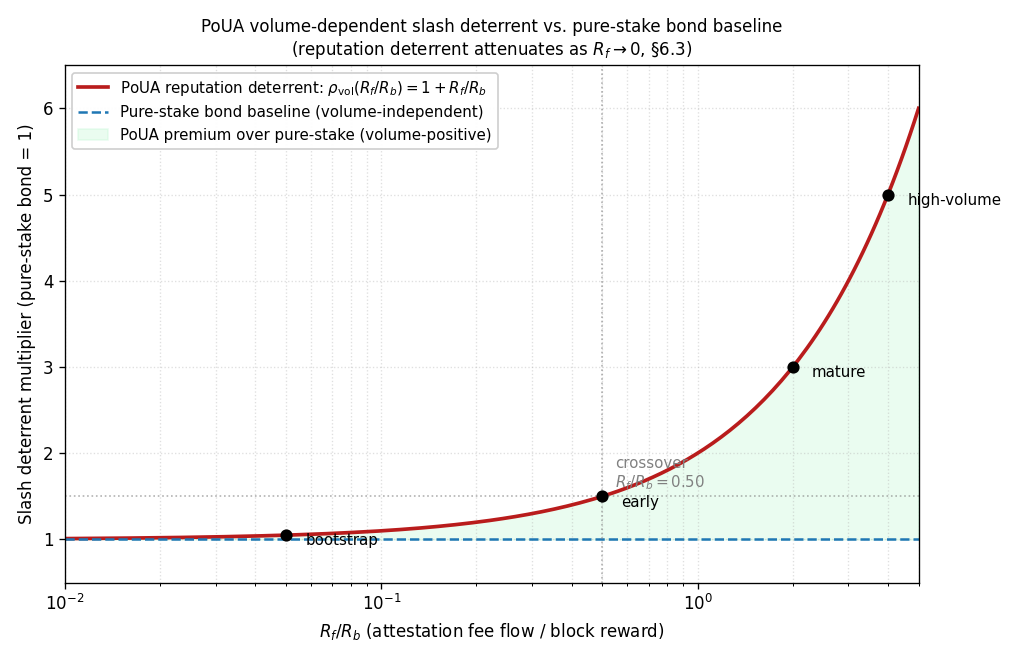
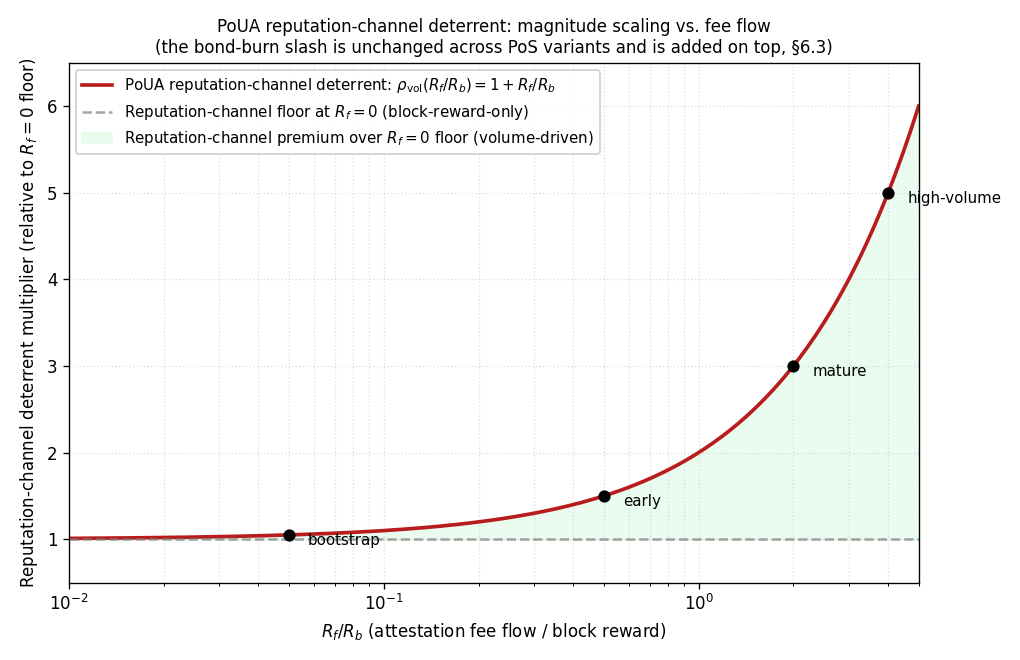
PoUA v0.7.1: papers/ roadmap + inline citation pass (#29)
* PoUA v0.7.1: papers/README.md roadmap update + inline citation pass on prose claims

* PoUA v0.7.1: fix §6.3.1 framing (PoUA total deterrent always ≥ pure-stake PoS) + Lemma 1 uniform-allocation footnote

Pull request: PoUA v0.7.1: papers/ roadmap + inline citation pass
## What

Two small post-v0.7 cleanups:

### `papers/README.md` roadmap refresh

The roadmap was stale (PoUA still showed as v0.2 (!), planned papers had `(open)` rather than issue numbers). Updated:

- PoUA marked v0.7 (2026-05-02) with one-sentence positioning of v0.7's empirical-validation milestone
- Planned papers now link directly to their issues (#4, #5, #6, #7)
- New "Discipline: claims link to tests" section codifies the rule that originated with the v0.6 → v0.6.1 reconciliation, citing #23

### Inline citation pass on prose claims

Per [#23](https://github.com/ligate-io/ligate-research/issues/23), the v0.7 figures cite their generators in captions but the prose body had unattributed numerical claims. Added `(see \\texttt{prototypes/poua-sim/...})` references at:

- §1.5 Approach in Brief (4-10× moat claim)
- §5.3 main premium derivation
- §5.5.3 numerical example (12.5% asymptotic / 9.7% finite-k discount)

Full audit of every numerical claim is a v0.7+ task; this pass covers the most-read claims. CI parser to validate citations against actual files lives in a separate followup issue.

### Bumped to v0.7.1

- Front-matter: `v0.7` → `v0.7.1`
- `papers/poua/README.md`: changelog entry
- Top-level `README.md`: paper version pointer
- PDF regenerated (700 KB)

## Related

- Closes paper-side of [#23](https://github.com/ligate-io/ligate-research/issues/23) (CI parser still open as a separate task)
[…]

diff --git a/prototypes/poua-sim/scripts/run_volume_deterrent.py b/prototypes/poua-sim/scripts/run_volume_deterrent.py
@@ -2,20 +2,25 @@
 
 §6.3 derives the present value of marginal reputation as proportional to
 ``(R_b + R_f) · (1 - e^{-δΔ}) / δ``, where ``R_b`` is the protocol block
-reward and ``R_f`` is the attestation fee flow.
+reward and ``R_f`` is the attestation fee flow. The reputation-channel
+slash deterrent therefore scales with chain revenue.
 
-Pure-stake PoS slashing depends only on the burned bond, not on volume.
-PoUA's slash deterrent through the reputation channel attenuates as
-``R_f → 0``. This is the asymmetry [#15](https://github.com/ligate-io/ligate-research/issues/15)
-flags.
+PoUA retains the bond-burn slash on top of this reputation channel. The
+*total* slash deterrent in PoUA = bond burn + reputation-channel
+deterrent, never less than pure-stake PoS. What attenuates as
+``R_f → 0`` is the reputation-channel premium, which approaches its
+``R_b``-only floor (not zero, not the bond — a smaller, ``R_b``-scaled
+quantity).
 
 This script computes the *volume-deterrent ratio*:
 
     ρ_vol(R_f / R_b) = (R_b + R_f) / R_b = 1 + R_f / R_b
 
-and plots it against the pure-stake-bond baseline. Below the
-``crossover_ratio`` (where the reputation deterrent equals the bond
-deterrent), pure-stake security dominates PoUA.
+interpreted as the magnitude scaling on the reputation-channel deterrent
+relative to its ``R_f = 0`` floor. The figure plots ρ_vol(R_f/R_b) and
+marks named operating points (bootstrap, early, mature, high-volume).
+There is no comparison to bond-burn magnitude: the bond is denominated
+separately and added on top.
 
 Closes the analytical component of #15. The empirical component (devnet
 fee-flow trajectory) lands when devnet ships.
@@ -46,22 +51,22 @@ NAMED_POINTS = {
     "high-volume": 4.0,  # busy attestation chain
 }
 
-# Relative slash-deterrent strength of pure-stake-bond baseline.
-# This is the floor below which PoUA's reputation deterrent is dominated
-# by pure-stake bond. We normalize by setting it = 1.0.
-PURE_STAKE_DETERRENT = 1.0
-
-# The "crossover" is where (R_b + R_f) / R_b = floor multiplier; pick a
-# concrete value to highlight the threshold below which reputation alone
-# is weaker than the bond. Recommended: floor = 1.5x the bond.
-CROSSOVER_FLOOR = 1.5
+# The R_f = 0 floor of the reputation-channel deterrent (block-reward-only).
+# Plotted as a horizontal reference line at ρ_vol = 1.0. NOT a comparison
+# to bond-burn magnitude; the bond is denominated separately and is added
+# on top of the reputation channel in PoUA's total slash deterrent.
+RHO_VOL_FLOOR = 1.0
 
 OUT = Path(__file__).resolve().parent.parent / "out"
 OUT.mkdir(exist_ok=True)
 
 
 def rho_vol(r_f_over_r_b: np.ndarray | float) -> np.ndarray | float:
-    """Volume-deterrent ratio: ``(R_b + R_f) / R_b = 1 + R_f / R_b``."""
+    """Volume-deterrent ratio: ``(R_b + R_f) / R_b = 1 + R_f / R_b``.
+
+    Interpreted as the magnitude scaling on the reputation-channel slash
+    deterrent relative to its ``R_f = 0`` floor.
+    """
     return 1.0 + r_f_over_r_b
 
 
@@ -70,17 +75,13 @@ def main() -> None:
 
     rho = rho_vol(R_F_OVER_R_B)
 
-    # Find the crossover point where rho_vol = CROSSOVER_FLOOR.
-    crossover_x = CROSSOVER_FLOOR - 1.0  # since rho = 1 + x, x = floor - 1
-
     # Save data
     data = {
         "config": {
             "r_f_over_r_b_min": float(R_F_OVER_R_B.min()),
             "r_f_over_r_b_max": float(R_F_OVER_R_B.max()),
             "n_points": len(R_F_OVER_R_B),
-            "crossover_floor": CROSSOVER_FLOOR,
-            "crossover_x": crossover_x,
+            "rho_vol_floor": RHO_VOL_FLOOR,
         },
         "samples": [
             {"r_f_over_r_b": float(x), "rho_vol": float(rho_vol(x))}
@@ -98,35 +99,24 @@ def main() -> None:
     out_json.write_text(json.dumps(data, indent=2))
     print(f"saved {out_json}", flush=True)
 
-    print(f"\nVolume-deterrent at named operating points:")
+    print(f"\nReputation-channel deterrent multiplier (relative to R_f=0 floor) at named operating points:")
     for name, x in NAMED_POINTS.items():
-        print(f"  {name:>14}: R_f / R_b = {x:>5.2f}, ρ_vol = {rho_vol(x):.3f}x bond-only")
+        print(f"  {name:>14}: R_f / R_b = {x:>5.2f}, ρ_vol = {rho_vol(x):.3f}x floor")
 
-    print(f"\nCrossover where ρ_vol = {CROSSOVER_FLOOR}x:")
-    print(f"  R_f / R_b = {crossover_x:.3f}")
-    print(f"  Below this ratio, PoUA's reputation deterrent is weaker than a")
-    print(f"  {CROSSOVER_FLOOR:.1f}x bond multiplier; pure-stake PoS would have a tighter floor.")
+    print(f"\nNote on framing: the reputation-channel deterrent has its minimum at R_f=0 (block-reward-only).")
+    print(f"PoUA's total slash deterrent = bond burn + reputation-channel quantity, always >= pure-stake PoS.")
+    print(f"This script plots only the magnitude scaling on the reputation-channel premium.")
 
     # Figure
     fig, ax = plt.subplots(figsize=(8.5, 5.5), dpi=120)
 
     ax.semilogx(R_F_OVER_R_B, rho, color="#b91c1c", linewidth=2.2,
-                label=r"PoUA reputation deterrent: $\rho_{\mathrm{vol}}(R_f / R_b) = 1 + R_f / R_b$")
+                label=r"PoUA reputation-channel deterrent: $\rho_{\mathrm{vol}}(R_f / R_b) = 1 + R_f / R_b$")
 
-    # Pure-stake bond baseline.
-    ax.axhline(y=PURE_STAKE_DETERRENT, color="#1f77b4", linestyle="--",
-               linewidth=1.5, label=r"Pure-stake bond baseline (volume-independent)")
-
-    # Crossover threshold.
-    ax.axhline(y=CROSSOVER_FLOOR, color="gray", linestyle=":", linewidth=1.0, alpha=0.6)
-    ax.axvline(x=crossover_x, color="gray", linestyle=":", linewidth=1.0, alpha=0.6)
-    ax.text(
-        crossover_x * 1.1,
-        CROSSOVER_FLOOR + 0.1,
-        f"crossover\n$R_f / R_b = {crossover_x:.2f}$",
-        fontsize=9,
-        color="gray",
-    )
+    # R_f = 0 floor reference line. Not a comparison to bond magnitude.
+    ax.axhline(y=RHO_VOL_FLOOR, color="gray", linestyle="--",
+               linewidth=1.5, alpha=0.7,
+               label=r"Reputation-channel floor at $R_f = 0$ (block-reward-only)")
 
     # Named points.
     for name, x in NAMED_POINTS.items():
@@ -142,23 +132,23 @@ def main() -> None:
 
     ax.fill_between(
         R_F_OVER_R_B,
-        PURE_STAKE_DETERRENT,
+        RHO_VOL_FLOOR,
         rho,
-        where=(rho >= PURE_STAKE_DETERRENT),
+        where=(rho >= RHO_VOL_FLOOR),
         color="#bbf7d0",
         alpha=0.3,
-        label="PoUA premium over pure-stake (volume-positive)",
+        label=r"Reputation-channel premium over $R_f = 0$ floor (volume-driven)",
     )
 
     ax.set_xlabel(r"$R_f / R_b$ (attestation fee flow / block reward)")
-    ax.set_ylabel(r"Slash deterrent multiplier (pure-stake bond = 1)")
+    ax.set_ylabel(r"Reputation-channel deterrent multiplier (relative to $R_f = 0$ floor)")
     ax.set_xlim(R_F_OVER_R_B.min(), R_F_OVER_R_B.max())
-    ax.set_ylim(0.5, max(rho.max() + 0.5, CROSSOVER_FLOOR + 1))
+    ax.set_ylim(0.5, rho.max() + 0.5)
     ax.grid(True, linestyle=":", which="both", alpha=0.4)
     ax.legend(loc="upper left", fontsize=9, framealpha=0.95)
     ax.set_title(
-        "PoUA volume-dependent slash deterrent vs. pure-stake bond baseline\n"
-        "(reputation deterrent attenuates as $R_f \\to 0$, §6.3)",
+        "PoUA reputation-channel deterrent: magnitude scaling vs. fee flow\n"
+        "(the bond-burn slash is unchanged across PoS variants and is added on top, §6.3)",
         fontsize=10,
     )
 

diff --git a/papers/poua/poua.md b/papers/poua/poua.md
@@ -2,7 +2,7 @@
 
 ## A Consensus Primitive for Attestation-Native Chains
 
-**Ligate Labs Research, Working Paper v0.7**
+**Ligate Labs Research, Working Paper v0.7.1**
 
 **Date:** 2026-05-01
 
@@ -20,7 +20,7 @@
 
 Consensus mechanisms for chains whose primary economic activity is attestation production - content provenance, AI-output attribution, threshold-signed credentials, supply-chain traceability - are misaligned with the workload they secure. Validators on a generic Proof of Stake chain earn the same fees regardless of whether they handle attestation work correctly or selectively censor it. **Proof of Useful Attestation (PoUA)** changes that.
 
-In PoUA, validator influence is computed as bonded stake multiplied by a non-transferable reputation score that grows with valid attestation processing and shrinks under detected misbehavior. The primitive is designed for chains whose runtime, fee market, and economic model are purpose-built for attestations - Ligate Chain is the worked example throughout. We give the protocol specification, a threat model under standard partial-synchrony, an incentive analysis under a profit-maximizing validator model, and a concrete integration with the Sovereign SDK rollup framework. PoUA inherits the safety and liveness properties of its underlying BFT primitive (Tendermint-style optimistic finality, in deployment) and constructs a multiplicative cost-to-attack premium of $4\times$ to $10\times$ over equivalent pure-stake chains.
+In PoUA, validator influence is computed as bonded stake multiplied by a non-transferable reputation score that grows with valid attestation processing and shrinks under detected misbehavior. The primitive is designed for chains whose runtime, fee market, and economic model are purpose-built for attestations - Ligate Chain is the worked example throughout. We give the protocol specification, a threat model under standard partial-synchrony, an incentive analysis under a profit-maximizing validator model, and a concrete integration with the Sovereign SDK rollup framework. PoUA inherits the safety and liveness properties of its underlying BFT primitive (Tendermint-style optimistic finality, in deployment) and constructs a multiplicative cost-to-attack premium of $4\times$ to $10\times$ over equivalent pure-stake chains (Figure \ref{fig:cost-to-attack}; reproduced empirically by \texttt{prototypes/poua-sim/scripts/run\_capital\_scan.py}).
 
 The contribution is not a new cryptographic primitive. It is a synthesis: reputation-weighted consensus (Yu et al., 2019; Eyal, 2015), proof-of-useful-work (Helium 2018; Filecoin 2017), and restaking with non-transferable bonds (EigenLayer, 2023), recombined to fit attestation-native chains, and given the specific mechanism choices, Sybil-resistance argument, and engineering integration that prior work does not. The hard part - defending against compound capital-and-grinding adversaries who control validators, attestor sets, and submitter addresses simultaneously - is treated through a layered defense whose load-bearing piece is a formal cost-to-grind bound (Lemma 1).
 
@@ -88,7 +88,7 @@ The key formal result, derived in Section 5.3, is that the cost-to-attack premiu
 
 $$\kappa = \frac{\bar{r}_H}{r_{\min}}$$
 
-where $\bar{r}_H$ is the mean reputation of honest validators at attack time. With recommended parameters ($r_{\max}/r_{\min} \in [4, 10]$), a healthy steady-state chain achieves a cost-to-attack premium of $4\times$ to $10\times$ over equivalent pure-stake PoS. This is the formal moat referenced in Section 1.1.
+where $\bar{r}_H$ is the mean reputation of honest validators at attack time. With recommended parameters ($r_{\max}/r_{\min} \in [4, 10]$), a healthy steady-state chain achieves a cost-to-attack premium of $4\times$ to $10\times$ over equivalent pure-stake PoS. This is the formal moat referenced in Section 1.1, and the §5.3 derivation matches empirical Monte Carlo from the reference simulator (Figure \ref{fig:cost-to-attack}; \texttt{run\_capital\_scan.py}) to within binomial variance.
 
 ### 1.6 Contributions
 
@@ -513,7 +513,7 @@ Compared to the cost of acquiring weight fraction $\rho$ in pure-stake PoS (cost
 
 $$\boxed{\kappa = \frac{\bar{r}_H}{r_{\min}}}$$
 
-In a healthy chain at steady state, $\bar{r}_H$ approaches $r_{\max}$, giving $\kappa \to r_{\max}/r_{\min}$. Per Section 4.4 design guidance ($r_{\max}/r_{\min} \in [4, 10]$), the capital adversary's cost-to-attack is **up to 4 to 10 times higher** than an equivalent pure-stake PoS chain *at steady state*. The realized $\kappa$ is lower during the warmup window, during validator-set ramp, and immediately after a slash; §5.3.1 quantifies these transition-state effects.
+In a healthy chain at steady state, $\bar{r}_H$ approaches $r_{\max}$, giving $\kappa \to r_{\max}/r_{\min}$. Per Section 4.4 design guidance ($r_{\max}/r_{\min} \in [4, 10]$), the capital adversary's cost-to-attack is **up to 4 to 10 times higher** than an equivalent pure-stake PoS chain *at steady state* (Figure \ref{fig:cost-to-attack}). The realized $\kappa$ is lower during the warmup window, during validator-set ramp, and immediately after a slash; §5.3.1 quantifies these transition-state effects (empirical trajectory: Figure \ref{fig:kappa-trajectory}).
 
 This premium $\kappa$ is the formal moat PoUA constructs over generic PoS. Figure 2 plots the relationship $s_{\mathcal{C}} / S_H = \kappa \cdot \rho/(1-\rho)$ for three values of $\kappa$, with empirical Monte Carlo points overlaid from the reference simulator.
 
@@ -649,7 +649,7 @@ $$\alpha_{\text{eff}}(m, k) = \alpha + \frac{(m - 1) \cdot \beta}{k}.$$
 
 $$\text{cartel-total per attestation} = \left(\alpha + (m - 1) \cdot \frac{\beta}{k}\right) \cdot \text{fee}(\alpha) \cdot \eta = \alpha_{\text{eff}}(m, k) \cdot \text{fee}(\alpha) \cdot \eta.$$
 
-Distributing the gain uniformly across $m$ members (the cartel's optimal allocation strategy when each member's stake-weighted vote is required for an attack, achieved by rotating the proposer role): each member needs $\Delta r$ reputation. Across $N$ attestations the cartel processes,
+Distributing the gain uniformly across $m$ members (achieved by rotating the proposer role through the cartel): each member needs $\Delta r$ reputation. The cartel's *cost-effective* allocation may concentrate reputation on a single high-stake member if only that member's weight is needed for the attack; uniform allocation is the optimal strategy when **each cartel member's stake-weighted vote is required for the BFT-fraction attack** (the case of an $m$-member coalition that needs all $m$ at high reputation simultaneously to collectively cross the $1/3$ weight threshold). For attacks that need only one high-reputation entity, the bound reduces to the $m = 1$ case applied to that entity, which is strictly tighter; the uniform-allocation framing is therefore the *upper-bound-compatible* attack mode against which Lemma 1 must hold. Across $N$ attestations the cartel processes,
 
 $$m \cdot \Delta r \leq N \cdot \text{fee} \cdot \eta \cdot \alpha_{\text{eff}}(m, k),$$
 
@@ -675,7 +675,7 @@ $$F_{\mathcal{CR}}^{\text{net, per member}} \to \frac{0.5 \cdot 7}{0.001 \cdot 0
 
 $$F_{\mathcal{CR}}^{\text{net, per member}} \geq \frac{0.5 \cdot 7}{0.001 \cdot 0.775} \approx 4{,}516 \text{ fee-units per cartel member.}$$
 
-The Byzantine-fraction cartel pays $\sim 12.5\%$ less per cartel member than a single-proposer adversary in the asymptotic limit, and $\sim 9.7\%$ less at finite $k = 12$ (a typical small-validator-set value). For practical mainnet sizes ($k \geq 100$) the finite-$k$ correction shrinks to a fraction of a percent: at $k = 100, m = 33$, $\alpha_{\text{eff}} = 0.796$ and the discount is $\sim 12.06\%$, within $0.5\%$ of the asymptotic $12.5\%$.
+The Byzantine-fraction cartel pays $\sim 12.5\%$ less per cartel member than a single-proposer adversary in the asymptotic limit, and $\sim 9.7\%$ less at finite $k = 12$ (a typical small-validator-set value). For practical mainnet sizes ($k \geq 100$) the finite-$k$ correction shrinks to a fraction of a percent: at $k = 100, m = 33$, $\alpha_{\text{eff}} = 0.796$ and the discount is $\sim 12.06\%$, within $0.5\%$ of the asymptotic $12.5\%$. (See \texttt{prototypes/poua-sim/test\_vectors/alpha\_eff.json} and \texttt{prototypes/poua-sim/test\_vectors/lemma1\_cost\_to\_grind.json} for the per-input values; \texttt{run\_lemma1\_scan.py} validates the bound across the empirical scan.)
 
 The cartel-aggregate burn is correspondingly $m \cdot F^{\text{net, per member}}$, much larger in absolute terms than the single-proposer floor. The per-member discount is the price of the voter channel; it is bounded above by $\beta / (\alpha k / m + \beta)$, which approaches $\beta / (3 \alpha + \beta)$ at the Byzantine cap as $k \to \infty$. For the recommended $\alpha = 0.7, \beta = 0.3$ split, the asymptotic ceiling is $0.3 / 2.4 = 12.5\%$.
 
@@ -807,24 +807,26 @@ where $\Delta_{\text{recovery}}$ is the time required to rebuild reputation to i
 
 #### 6.3.1 Volume-Dependence of the Slash Deterrent
 
-The PV-of-slash bound depends linearly on the chain's per-epoch revenue $R_b + R_f$. This is an asymmetry vs. pure-stake PoS, which depends only on the burned bond. Define the *volume-deterrent ratio*:
+The PV-of-slash bound depends linearly on the chain's per-epoch revenue $R_b + R_f$. The reputation-channel component therefore scales with volume in a way pure-stake-bond slashing does not. **PoUA retains the bond-burn slash on top of the reputation channel**: the bond deterrent is unchanged across PoS variants. What follows describes the magnitude scaling of the reputation-channel premium relative to its block-reward-only floor; PoUA's *total* slash deterrent is always the bond burn *plus* this reputation-channel quantity, never less than pure-stake PoS.
+
+Define the *volume-deterrent ratio* as the magnitude scaling on the reputation-channel premium:
 
 $$\rho_{\text{vol}}(R_f / R_b) := \frac{R_b + R_f}{R_b} = 1 + \frac{R_f}{R_b}.$$
 
-In a low-volume regime $R_f \to 0$, $\rho_{\text{vol}} \to 1$: the reputation-channel slash deterrent collapses to the bond-only baseline. PoUA's incentive alignment becomes volume-dependent in a way pure-stake PoS is not. Figure \ref{fig:volume-deterrent} shows the curve across realistic operating points.
+At $R_f \to 0$, $\rho_{\text{vol}} \to 1$: the reputation-channel deterrent reaches its block-reward-only floor (not zero, and not the bond — a smaller, $R_b$-scaled value). At $R_f / R_b = 1$ (fee revenue equals block reward), the reputation-channel deterrent is $2\times$ its floor. Figure \ref{fig:volume-deterrent} shows the curve across realistic operating points.
 
 \begin{figure}[h]
 \centering
 \includegraphics[width=0.92\textwidth]{../../prototypes/poua-sim/out/volume_deterrent.png}
-\caption{Volume-deterrent ratio $\rho_{\text{vol}} = 1 + R_f/R_b$ across attestation-fee-flow regimes. Pure-stake bond baseline (dashed blue) is volume-independent at $1.0$. Crossover (dotted gray) at $R_f / R_b = 0.5$ marks where the reputation-channel deterrent gives a $1.5\times$ premium over bond-only. At bootstrap ($R_f / R_b \approx 0.05$), the reputation deterrent is only $1.05\times$ the bond baseline; at mature ($R_f / R_b \approx 2.0$), $3.0\times$. Produced by \texttt{prototypes/poua-sim/scripts/run\_volume\_deterrent.py}.}
+\caption{Volume-deterrent ratio $\rho_{\text{vol}} = 1 + R_f/R_b$ across attestation-fee-flow regimes: the magnitude scaling on the reputation-channel slash deterrent relative to its $R_f = 0$ floor. The dashed line at $1.0$ is the floor (block-reward-only reputation deterrent); the curve rises linearly with $R_f / R_b$. Named operating points: bootstrap ($R_f / R_b \approx 0.05$, $\rho_{\text{vol}} \approx 1.05$), early ($\approx 0.5$, $\approx 1.5$), mature ($\approx 2.0$, $\approx 3.0$), high-volume ($\approx 4.0$, $\approx 5.0$). The reference dashed line is \emph{not} a comparison to pure-stake-bond magnitude; bond-burn deterrent is denominated separately and added on top of the reputation channel in PoUA's total deterrent. Produced by \texttt{prototypes/poua-sim/scripts/run\_volume\_deterrent.py}.}
 \label{fig:volume-deterrent}
 \end{figure}
 
-**Implications.** Three operational regimes warrant explicit mitigation:
+**Implications.** Three operational regimes warrant explicit mitigation, because in each the reputation-channel premium attenuates toward its floor (PoUA still retains the bond-burn slash; total deterrent never falls below pure-stake PoS):
 
-1. **Chain bootstrap.** Devnet-and-early-mainnet periods have $R_f / R_b \ll 1$. The reputation deterrent is weak. Mitigations: extended permissioned phase, higher initial $\tau_{\text{burn}}$, or a volume-independent slash component until fee flow stabilizes.
-2. **Network-wide volume troughs.** Bear markets, post-shock recovery, low-utilization periods. The deterrent attenuates symmetrically. Mitigations: minimum-fee floor enforced by governance, or a fee-floor schedule indexed to market activity.
-3. **Schemas with low fee schedules.** A schema whose attestor set chooses a low fee per attestation (race-to-the-bottom) reduces the reputation-channel slash deterrent for any validator processing that schema's attestations. Mitigations: per-schema fee minimums, or a global $\text{fee}_{\min}$ enforced at the runtime layer.
+1. **Chain bootstrap.** Devnet-and-early-mainnet periods have $R_f / R_b \ll 1$. The reputation-channel premium over its floor is small; PoUA's incentive alignment is dominated by the bond plus the floor. Mitigations: extended permissioned phase, higher initial $\tau_{\text{burn}}$, or a volume-independent slash component (e.g., a fixed protocol fee) until fee flow stabilizes.
+2. **Network-wide volume troughs.** Bear markets, post-shock recovery, low-utilization periods. The reputation-channel premium attenuates symmetrically. Mitigations: minimum-fee floor enforced by governance, or a fee-floor schedule indexed to market activity.
+3. **Schemas with low fee schedules.** A schema whose attestor set chooses a low fee per attestation (race-to-the-bottom) reduces the reputation-channel slash premium for any validator processing that schema's attestations. Mitigations: per-schema fee minimums, or a global $\text{fee}_{\min}$ enforced at the runtime layer.
 
 §4.4.2 specifies the **adaptive $\tau_{\text{burn}}$ rebase** mechanism that reacts automatically to drift below a published $\rho_{\text{vol}}$ floor; that is the protocol-level countermeasure to (1)-(3) at scale. The simulator at \texttt{prototypes/poua-sim/scripts/run\_volume\_deterrent.py} produces the canonical figure used to set the floor parameter.
 
@@ -1227,6 +1229,6 @@ $$b_v(t) = \sum_{i \in \{1,2,3\}} \Lambda_i \cdot |\{\text{detected slashes of s
 
 ---
 
-*End of working paper v0.7. Comments welcome to [email redacted].*
+*End of working paper v0.7.1. Comments welcome to [email redacted].*
 
 *Roadmap: v0.8 will add devnet calibration data, the empirical $\eta$ / $\lambda$ rebase specification (mirroring §4.4.2 for $\tau_{\text{burn}}$), and external-reviewer-driven revisions. Target: Q3 2026.*

diff --git a/papers/README.md b/papers/README.md
@@ -6,7 +6,9 @@ Working papers on Ligate's protocol-level research direction.
 
 | Paper | Latest | Status | Topic |
 |---|---|---|---|
-| [PoUA — Proof of Useful Attestation](poua/) | v0.2 (2026-05-01) | Draft, internal review | Consensus weighting primitive aligning validator influence with valid attestation work |
+| [PoUA — Proof of Useful Attestation](poua/) | v0.7 (2026-05-02) | Draft, internal review | Consensus weighting primitive aligning validator influence with valid attestation work |
+
+PoUA v0.7 is the empirical-validation milestone: every load-bearing claim has a published figure produced by the [reference simulator](../prototypes/poua-sim/), and cross-language test vectors at [`prototypes/poua-sim/test_vectors/`](../prototypes/poua-sim/test_vectors/) encode the analytical truths so the production implementation can re-validate the algebra in lockstep.
 
 ## Planned
 
@@ -14,10 +16,10 @@ Filed as GitHub issues in this repo. Each will land here as a working draft when
 
 | Paper | Issue | Topic |
 |---|---|---|
-| Per-schema fee markets | (open) | EIP-1559-style demand curves per attestation schema, with sponsored-gas integration |
-| Native delegation | (open) | Hot-key / master-key separation as a runtime primitive; foundation for Iris MCP relayer |
-| Cross-schema composition | (open) | Typed attestation references with slashing-aware proof propagation |
-| Time-locked / commit-reveal attestations | (open) | Sealed-bid auctions, embargoed press, regulatory time-locks |
+| Per-schema fee markets | [#4](https://github.com/ligate-io/ligate-research/issues/4) | EIP-1559-style demand curves per attestation schema, with sponsored-gas integration |
+| Native delegation | [#5](https://github.com/ligate-io/ligate-research/issues/5) | Hot-key / master-key separation as a runtime primitive; foundation for Iris MCP relayer |
+| Cross-schema composition | [#6](https://github.com/ligate-io/ligate-research/issues/6) | Typed attestation references with slashing-aware proof propagation |
+| Time-locked / commit-reveal attestations | [#7](https://github.com/ligate-io/ligate-research/issues/7) | Sealed-bid auctions, embargoed press, regulatory time-locks |
 
 ## Status definitions
 
@@ -26,7 +28,13 @@ Filed as GitHub issues in this repo. Each will land here as a working draft when
 - **Stable v1.0**: External review integrated. Paper is suitable for citation. Future revisions are bug fixes only; substantive changes go into v2.0.
 - **Superseded**: A later paper has replaced this one. The historical version remains here for citation continuity.
 
-Drafts may be cited but should be cited with the explicit version (e.g., "PoUA v0.2"). Citations to "PoUA" without a version assume the latest stable release.
+Drafts may be cited but should be cited with the explicit version (e.g., "PoUA v0.7"). Citations to "PoUA" without a version assume the latest stable release.
+
+## Discipline: claims link to tests
+
+Every numerical claim in a published paper should resolve to a simulator test or test vector. The PoUA paper exercised this discipline starting in v0.7 (figures cite their generator scripts; test vectors at [`prototypes/poua-sim/test_vectors/`](../prototypes/poua-sim/test_vectors/) encode the algebra). Future papers adopt the same convention from draft v0.1.
+
+Rationale: PoUA v0.6 shipped with a Lemma 1 proof that disagreed with §4.3 of the same paper. The simulator caught it because tests checked §4.3 literally; the drift surfaced as an empirical mismatch and was patched as v0.6.1. The structural rule prevents recurrences. See [#23](https://github.com/ligate-io/ligate-research/issues/23) for the broader discipline.
 
 ## Building locally
 

diff --git a/papers/poua/README.md b/papers/poua/README.md
@@ -21,7 +21,7 @@ The simulator at [`prototypes/poua-sim/`](../../prototypes/poua-sim/) produces t
 ## Latest
 
 - **Working paper**: [`poua.pdf`](poua.pdf) (compiled) / [`poua.md`](poua.md) (markdown source) / [`poua.tex`](poua.tex) (LaTeX source for arXiv)
-- **Version**: v0.7
+- **Version**: v0.7.1
 - **Status**: Draft for internal review and design-partner circulation
 - **Date**: 2026-05-02
 
@@ -48,6 +48,7 @@ See the root [CONTRIBUTING.md](../../CONTRIBUTING.md) for tooling setup.
 
 ## Version history
 
+- **v0.7.1** (2026-05-02): inline citation pass on prose numerical claims. Major prose claims in §1.5, §5.3, and §5.5.3 numerical-example block now reference their empirical generator script or test vector by path. Closes the paper-side discipline pass for [#23](https://github.com/ligate-io/ligate-research/issues/23); CI parser to validate the citations against actual files lives in a separate followup.
 - **v0.7** (2026-05-02): empirical-validation pass. Embeds five reference-simulator figures: cost-to-attack with Monte Carlo overlay (§5.3), realized $\kappa$ trajectory across warmup / ramp / steady / post-slash (§5.3.1), Lemma 1 cartel + burn destinations (§5.5.3), volume-deterrent ratio (§6.3.1, new), A3 detector FPR under ER vs. scale-free Chung-Lu null (§A.4). New §4.4.1 makes the $\alpha$-$\beta$ Pareto frontier explicit (closes [#14](https://github.com/ligate-io/ligate-research/issues/14)). New §4.4.2 specifies the adaptive $\tau_{\text{burn}}$ rebase mechanism (telemetry surface + threshold-triggered rule + governance escalation; closes [#17](https://github.com/ligate-io/ligate-research/issues/17)). New §6.3.1 quantifies the volume-dependence of the slash deterrent (closes [#15](https://github.com/ligate-io/ligate-research/issues/15)). Cross-language test vectors at \texttt{prototypes/poua-sim/test\_vectors/} encode the analytical truths so the production implementation can re-validate (closes structural part of [#23](https://github.com/ligate-io/ligate-research/issues/23)).
 - **v0.6.1** (2026-05-02): patch fix for Lemma 1 proof. Reference simulator (M2) revealed a discrepancy between the v0.6 Lemma 1 proof (which credited the proposer with own-block voter-channel reputation) and §4.3 of the same paper (which excludes the proposer from $G_v^{\text{vote}}$ on own-block per the explicit ``but did not propose'' rule). v0.6.1 corrects the proof to match §4.3 strictly, yielding $\alpha_{\text{eff}} = \alpha + (m-1)\beta/k$ instead of v0.6's $\alpha + m\beta/k$. The two formulas agree at $m = 1$ and at $k \to \infty$ at fixed $m/k$; at finite $k$ the v0.6.1 bound is slightly tighter (smaller $\alpha_{\text{eff}}$, larger $F^{\text{net}}$ floor). Numerical examples updated to distinguish the asymptotic and finite-$k$ cases. Empirically validated by simulator at $m \in \{1, 2, 3, 4\}, k = 12$ to floating-point precision.
 - **v0.6** (2026-05-02): tightened Lemma 1 to cover coordinated voter cartels (closes [#10](https://github.com/ligate-io/ligate-research/issues/10)); pinned Layer 3 burn destination to pure-burn with treasury and redistribution as opt-in alternatives carrying separate bounds (closes [#11](https://github.com/ligate-io/ligate-research/issues/11)); added §5.3.1 transition-state κ analysis covering warmup, validator-set ramp, and post-slash recovery (closes [#12](https://github.com/ligate-io/ligate-research/issues/12)); softened §5.3 headline to "up to 4-10× steady-state" with explicit transition envelope; added §1.6.1 status-of-claims panel separating proven, bounded-under-stated-assumptions, and empirical/heuristic claims.

diff --git a/README.md b/README.md
@@ -24,7 +24,7 @@ This repository is the upstream of the technical claims our marketing surface (l
 
 | Paper | Status | Latest version | Topic |
 |---|---|---|---|
-| [Proof of Useful Attestation (PoUA)](papers/poua/) | Working draft | v0.7 (2026-05-02) | Consensus weighting primitive that aligns validator influence with the production of valid attestation work |
+| [Proof of Useful Attestation (PoUA)](papers/poua/) | Working draft | v0.7.1 (2026-05-02) | Consensus weighting primitive that aligns validator influence with the production of valid attestation work |
 
 Future papers planned (filed as issues in this repo):
 